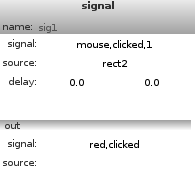
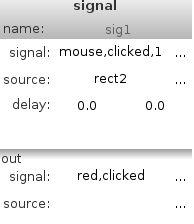
update screenshots of signal edition in docs
git-svn-id: svn+ssh://svn.enlightenment.org/var/svn/e/trunk@46712 7cbeb6ba-43b4-40fd-8cce-4c39aea84d33

diff --git a/editje/doc/editje_manual.tex b/editje/doc/editje_manual.tex
@@ -1692,7 +1692,7 @@ listen events. Here we list all callback types of Evas objects:
   lowered or moved out of the way.
 
 \item[EVAS\_CALLBACK\_MOUSE\_OUT] This event is triggered exactly like
-  EVAS\_CALLBACK\_MOUSE\_IN is, but occurs when the mouse pointer
+  the previous one is, but occurs when the mouse pointer
   exits an object.  Note that no out events will be reported if the
   mouse pointer is implicitly grabbed to an object (the mouse buttons
   are down at all and any were pressed on that object). An out event
@@ -1948,7 +1948,7 @@ when received the signal.
 
 \begin{figure}
  \centering
- \includegraphics{./images/signal_anim.png}
+ \includegraphics[width=0.3\textwidth]{./images/signal_anim.png}
  % signal_anim.png: 195x140 pixel, 72dpi, 6.88x4.94 cm, bb=0 0 195 140
  \caption{Editje Signal Edition Mode Window}
  \label{fig:signal_animation_config}
@@ -1977,11 +1977,12 @@ program listen one signal and after one optional delay emit another signal.
 
 \begin{figure}
  \centering
- \includegraphics{./images/signal_signal.png}
- % signal_signal.png: 195x182 pixel, 72dpi, 6.88x6.42 cm, bb=0 0 195 182
+ \includegraphics[width=0.3\textwidth]{./images/signal_signal.png}
+ % signal_signal.png: 194x224 pixel, 72dpi, 6.84x7.90 cm, bb=0 0 194 224
  \caption{Editje Signal Edition Mode Window}
  \label{fig:signal_signal_edition}
 \end{figure}
+
 
 	Once selected one Animation Signal, the area number 2 in
 \ref{fig:signal_window} will be showed as the figure
